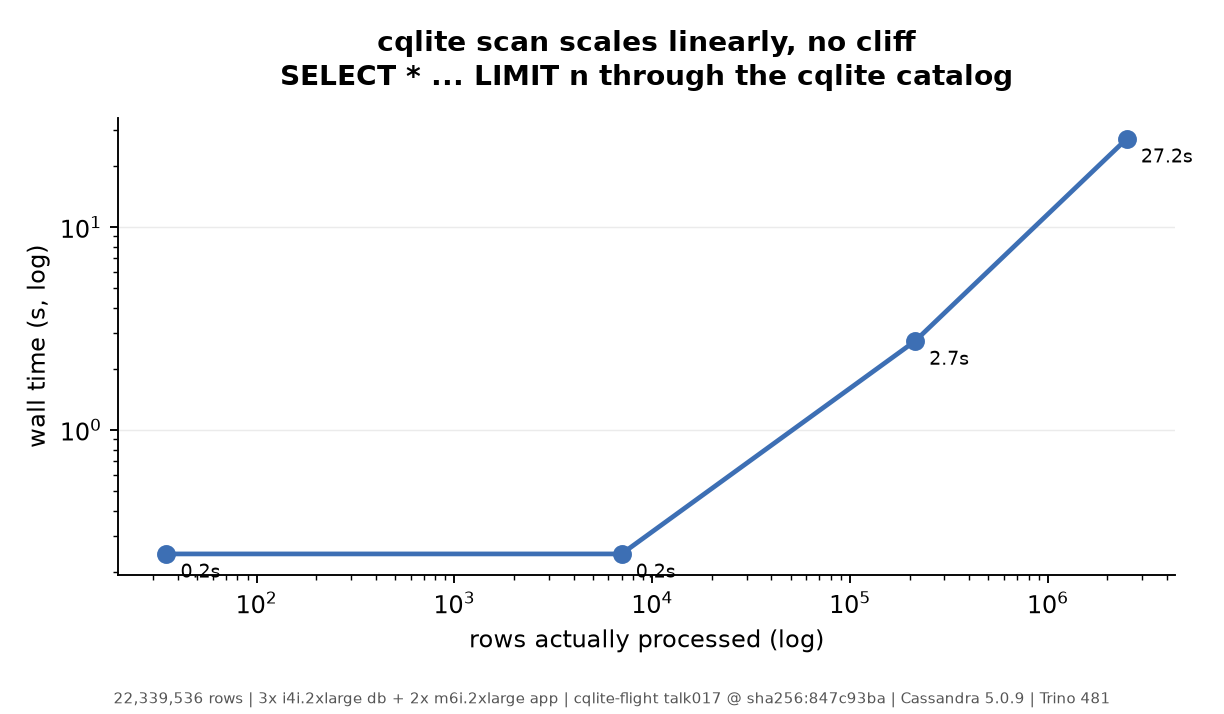
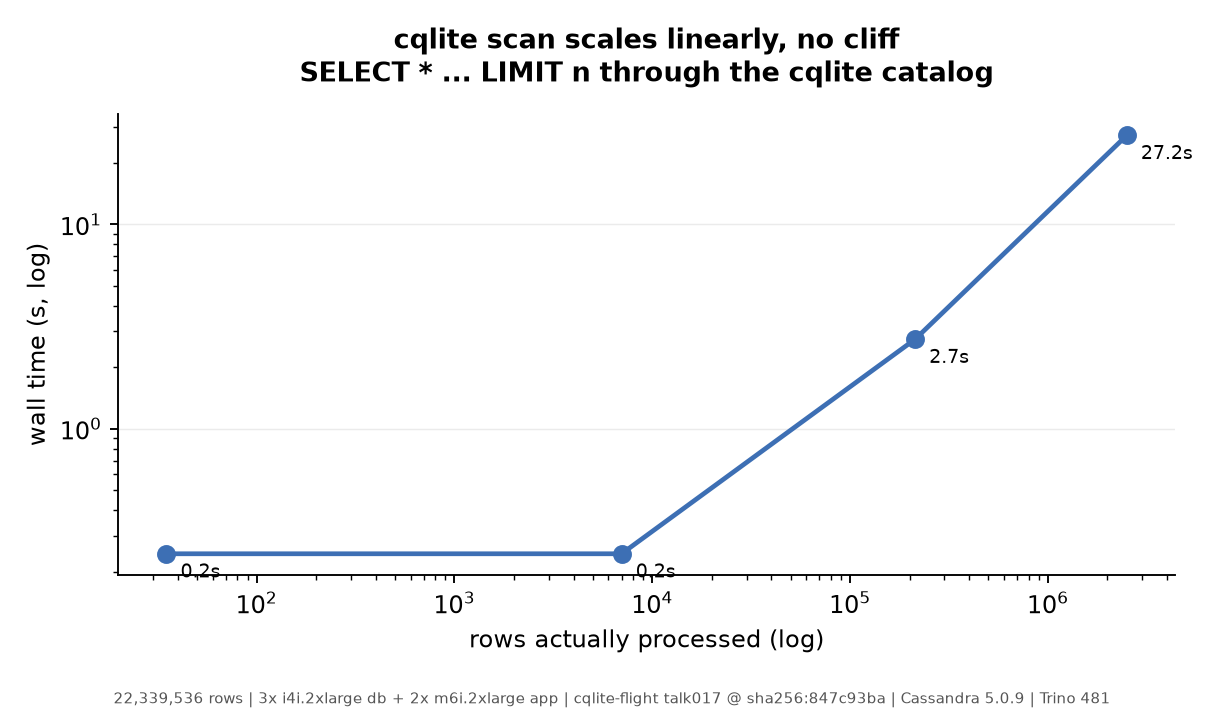
docs(#4137): all 7 talk charts -- D1..D6 + scan ladder
Adds d3-timeseries, d4-ladder, d5-freshness and re-renders the rest.

Fixed a correctness bug in the shared footer before committing: every chart carried keyvalue's
22,339,536-row count, so the D3 and D5 charts -- which measure sensor_data (23,703,992 rows) --
displayed the wrong table's row count. #4137 requires the MEASURED count for the table the chart
is about, and a wrong count on a slide is the kind of thing that discredits the rest of it. The
row string is now a per-chart argument.

Also shortened the D3 subtitle, which was being clipped at both figure edges.

D3's chart deliberately shows cqlite LOSING (0.70x/0.75x/0.80x) with the ratios coloured red, and
annotates the cassandra JOIN as FAILED-out-of-memory rather than drawing a zero-height bar that
could be misread as instant.

diff --git a/docs/2024-09-meetup/charts/render.py b/docs/2024-09-meetup/charts/render.py
@@ -35,14 +35,18 @@ def data_rows(path):
     return list(csv.DictReader(lines))
 
 
-def finish(fig, ax, title, ylabel, png):
-    ax.set_title(title, fontsize=12, fontweight="bold", pad=14)
+def finish(fig, ax, title, ylabel, png, rows=ROWS):
+    """`rows` is per-chart on purpose: the footer must name the row count of the table THIS chart
+    measures. Defaulting every chart to keyvalue's 22,339,536 put the wrong count under the D3
+    chart, which is sensor_data (23,703,992). #4137 requires the measured count for that table."""
+    ax.set_title(title, fontsize=11.5, fontweight="bold", pad=14, wrap=True)
     ax.set_ylabel(ylabel, fontsize=10)
     ax.grid(axis="y", **GRID)
     ax.set_axisbelow(True)
     for s in ("top", "right"):
         ax.spines[s].set_visible(False)
-    fig.text(0.5, 0.015, SUB, ha="center", fontsize=6.5, color="#555")
+    sub = f"{rows} | {SHAPE} | cqlite-flight talk017 @ {DIGEST} | Cassandra 5.0.9 | Trino 481"
+    fig.text(0.5, 0.015, sub, ha="center", fontsize=6.5, color="#555")
     fig.tight_layout(rect=(0, 0.05, 1, 1))
     fig.savefig(OUT / png, dpi=170)
     plt.close(fig)
@@ -168,3 +172,102 @@ ax.set_xlabel("rows actually processed (log)", fontsize=10)
 finish(fig, ax,
        "cqlite scan scales linearly, no cliff\nSELECT * ... LIMIT n through the cqlite catalog",
        "wall time (s, log)", "d2-scan-limit-ladder.png")
+
+# ---------------------------------------------------------------- D3 two catalogs
+import re as _re
+d3 = {}
+for line in open(RES / "d3-timeseries.csv"):
+    m = _re.match(r">\s*(q\d_\w+),(cassandra|cqlite),(\d*),(\d),(.*)", line.strip())
+    if m:
+        q, cat, ms, n, verdict = m.groups()
+        d3[(q, cat)] = (int(ms) if ms else None, verdict.strip())
+
+qs = ["q1_cross_partition_groupby", "q2_approx_percentile", "q3_window_function", "q4_join_two_tables"]
+NICE = {"q1_cross_partition_groupby": "cross-partition\nGROUP BY",
+        "q2_approx_percentile": "approx_percentile\nper sensor",
+        "q3_window_function": "window function\n(row_number)",
+        "q4_join_two_tables": "JOIN two\nCassandra tables"}
+fig, ax = plt.subplots(figsize=(9.2, 4.8))
+x = list(range(len(qs)))
+w = 0.36
+cass = [d3.get((q, "cassandra"), (None, ""))[0] for q in qs]
+cql = [d3.get((q, "cqlite"), (None, ""))[0] for q in qs]
+# A failed query has no bar; it gets an explicit annotation instead of a zero, so absence of a bar
+# cannot be misread as "instant".
+ax.bar([i - w / 2 for i in x], [(v or 0) / 1000 for v in cass], w, color=C_CASS, label="cassandra")
+ax.bar([i + w / 2 for i in x], [(v or 0) / 1000 for v in cql], w, color=C_CQL, label="cqlite")
+for i, q in enumerate(qs):
+    for v, off, col in ((cass[i], -w / 2, C_CASS), (cql[i], w / 2, C_CQL)):
+        if v is None:
+            ax.text(i + off, 0.6, "FAILED\nout of\nmemory", ha="center", va="bottom",
+                    fontsize=8, fontweight="bold", color="#A02020")
+        else:
+            ax.text(i + off, v / 1000 + 0.3, f"{v/1000:.1f}s", ha="center", fontsize=9)
+    if cass[i] and cql[i]:
+        r = cass[i] / cql[i]
+        ax.text(i, max(cass[i], cql[i]) / 1000 + 1.8, f"{r:.2f}x",
+                ha="center", fontsize=10, fontweight="bold",
+                color=C_CQL if r > 1 else "#A02020")
+ax.set_xticks(x)
+ax.set_xticklabels([NICE[q] for q in qs], fontsize=9)
+ax.legend(frameon=False, fontsize=9, loc="upper left")
+ax.set_ylim(0, 17)
+finish(fig, ax,
+       "Analytics you can't write in CQL -- and where cqlite is SLOWER\n"
+       "on sensor_data cqlite runs 1.3-1.4x slower; only the JOIN needs it",
+       "wall time (s), medians of 3", "d3-timeseries.png",
+       rows="23,703,992 rows (sensor_data, ~9 rows/partition)")
+
+# ------------------------------------------------------------------- D4 ladder
+rows = data_rows(RES / "d4-ladder.csv")
+th = [int(r["threads"]) for r in rows]
+qps = [float(r["qps"]) for r in rows]
+p50 = [int(r["p50_ms"]) for r in rows]
+p99 = [int(r["p99_ms"]) for r in rows]
+fig, ax = plt.subplots(figsize=(8.0, 4.6))
+ax.plot(th, qps, marker="o", color=C_CQL, lw=2.2, ms=7, label="qps")
+ax.set_xlabel("concurrent clients", fontsize=10)
+ax.set_ylabel("queries/sec", fontsize=10, color=C_CQL)
+ax.tick_params(axis="y", labelcolor=C_CQL)
+ax2 = ax.twinx()
+ax2.plot(th, p99, marker="s", color=C_CASS, lw=2.2, ms=6, ls="--", label="p99 ms")
+ax2.plot(th, p50, marker="^", color="#8A8A8A", lw=1.6, ms=6, ls=":", label="p50 ms")
+ax2.set_ylabel("latency (ms)", fontsize=10, color=C_CASS)
+ax2.tick_params(axis="y", labelcolor=C_CASS)
+ax2.spines["top"].set_visible(False)
+for xx, yy in zip(th, qps):
+    ax.annotate(f"{yy:.1f}", (xx, yy), textcoords="offset points", xytext=(0, 8), fontsize=8, color=C_CQL)
+h1, l1 = ax.get_legend_handles_labels()
+h2, l2 = ax2.get_legend_handles_labels()
+ax.legend(h1 + h2, l1 + l2, frameon=False, fontsize=9, loc="upper left")
+ax.set_xticks(th)
+finish(fig, ax,
+       "Dashboards at scale: 0 errors and 0 restarts through 80 clients\n"
+       "degrades in LATENCY, never by failing; Flight memory flat idle->80 clients",
+       "queries/sec", "d4-ladder.png",
+       rows="mixed bounded queries over keyvalue + sensor_data")
+
+# ---------------------------------------------------------------- D5 freshness
+d5 = {}
+for line in open(RES / "d5-freshness.csv"):
+    m = _re.match(r">\s*(stock_flush60|flush_period_10s),(\d+),(-?\d+),(-?\d+),(\d+),(\d+),", line.strip())
+    if m:
+        lab, n, medg, maxg, z, growth = m.groups()
+        d5[lab] = dict(n=int(n), med=int(medg), mx=int(maxg), zero=int(z), growth=int(growth))
+fig, ax = plt.subplots(figsize=(7.6, 4.4))
+labs = ["stock_flush60", "flush_period_10s"]
+NICE5 = {"stock_flush60": "forced flush\nevery 60s", "flush_period_10s": "memtable_flush_\nperiod = 10s"}
+mx = [d5[l]["mx"] for l in labs]
+bars = ax.bar([NICE5[l] for l in labs], mx, color=C_CQL, width=0.45)
+for b, l in zip(bars, labs):
+    dd = d5[l]
+    ax.text(b.get_x() + b.get_width() / 2, 0.06,
+            f"max gap\n{dd['mx']} rows\n\n(n={dd['n']} probes,\npartition grew\n+{dd['growth']} rows)",
+            ha="center", va="bottom", fontsize=9)
+ax.set_ylim(-1.2, 1.2)
+ax.axhline(0, color="#444", lw=1)
+finish(fig, ax,
+       "Fresh within a flush: rows visible to Cassandra but NOT to CQLite\n"
+       "0.17 freshness == flush cadence (#1807 is 0.18). At 2k writes/s memtable pressure flushed often enough that lag never appeared.",
+       "staleness (rows), max over probes", "d5-freshness.png",
+       rows="23,703,992 rows (sensor_data)")
